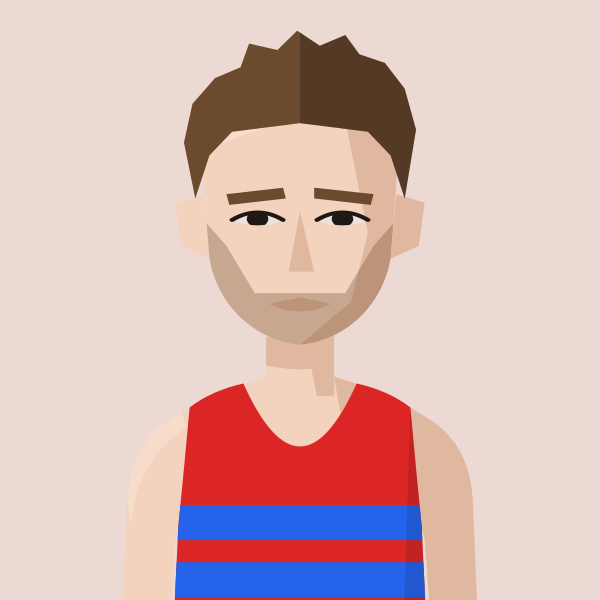
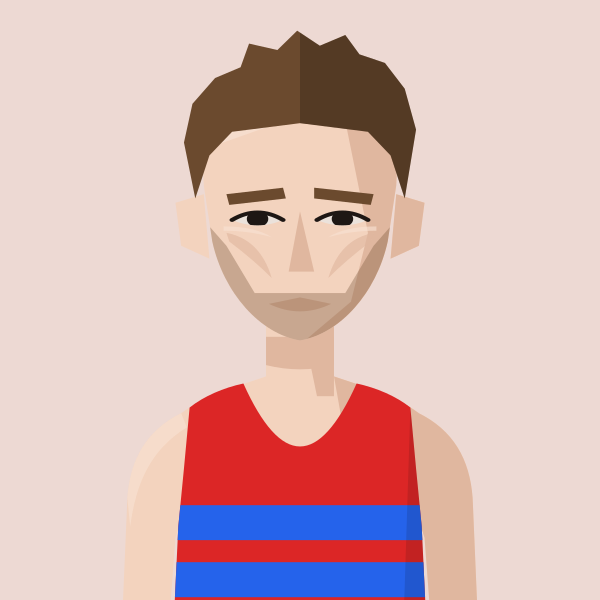
Jack Ramm: thinner face (narrow jaw option + hollow cheeks)
Claude-Session: https://claude.ai/code/session_01MgmDWhFqnSSnP4iBLKXUZC

Changed region(s): [[0.51, 0.36, 0.66, 0.57], [0.33, 0.39, 0.48, 0.57]]

diff --git a/files/index.html b/files/index.html
@@ -594,7 +594,7 @@ return m;})();
 const portraitFile=(name,club)=>{const k=normalizeNameForCompare(name||'').replace(/\s*\(([^)]*)\)$/,(m,c)=>CLUBS[c.toUpperCase()]?'':m);const a=PORTRAITS[k];if(a&&a.club===club)return a.file;const b=PORTRAITS[k+'@'+club];return b?b.file:null;};
 // Athlete header figure: superstar portrait if we have one, else a grey runner in the club vest, else the plain vest icon
 // Changes whenever any portrait changes (set by tools/build_og.py), so browsers fetch fresh images instead of old cached ones
-const PORTRAIT_V='b87ac3f2';
+const PORTRAIT_V='356202d5';
 const AthletePortrait=({name,club,w,fill,onClick})=>{const[failed,setFailed]=useState(false);const file=portraitFile(name,club);const src=file?`/portraits/athletes/${file}.svg?v=${PORTRAIT_V}`:PORTRAIT_CLUBS.has(club)?`/portraits/clubs/${club.replace(/\//g,'').replace(/&/g,'and')}.svg?v=${PORTRAIT_V}`:null;if(!src||failed)return<div onClick={onClick} className={onClick?'cursor-pointer':''}><ClubShield club={club} size={w}/></div>;const h=Math.round(w*148/126),ih=Math.round(w*1.4);if(fill)return<div onClick={onClick} className="cursor-pointer" style={{alignSelf:'stretch',minHeight:h,aspectRatio:'126 / 148',flexShrink:0,position:'relative',borderRadius:4,overflow:'hidden'}}><img src={src} alt={file?`Portrait of ${name.replace(/\s*\([^)]*\)$/,'')}`:`Runner in ${CLUBS[club]?.name||club} vest`} style={{position:'absolute',top:0,left:0,display:'block',width:'100%',height:'auto'}} onError={()=>setFailed(true)}/></div>;return<div style={{width:w,height:h,borderRadius:4,overflow:'hidden',flexShrink:0}}><img src={src} alt={file?`Portrait of ${name.replace(/\s*\([^)]*\)$/,'')}`:`Runner in ${CLUBS[club]?.name||club} vest`} width={w} height={ih} style={{display:'block',width:w,height:ih}} onError={()=>setFailed(true)}/></div>;};
 const getClubVestSvg=(club)=>{
   const p="M3 0 L6 0 Q7 4 10 5 Q13 4 14 0 L17 0 L17 20 L3 20 Z";

diff --git a/tools/gen_portraits.py b/tools/gen_portraits.py
@@ -4,6 +4,7 @@ Generic runners: 'grey' silhouette or 'outline' — no implied skin tone."""
 import os, math
 os.makedirs("v4", exist_ok=True)
 
+HEAD_NARROW = "M66,96 C64,58 80,40 100,40 C120,40 136,58 134,96 L131,122 C127,146 114,165 100,168 C86,165 73,146 69,122 Z"
 HEAD_SQUARE = "M66,96 C64,58 80,40 100,40 C120,40 136,58 134,96 L133,140 C132,156 122,167 109,169 L91,169 C78,167 68,156 67,140 Z"
 HEAD = "M66,96 C64,58 80,40 100,40 C120,40 136,58 134,96 L132,130 C129,152 116,168 100,170 C84,168 71,152 68,130 Z"
 SQ = 'transform="translate(0,83) scale(1,0.76) translate(0,-40)"'
@@ -164,7 +165,7 @@ def _eyewhite(sk):  # an off-white, tinted towards the skin so it never glares
     return '#' + ''.join(f'{round(int(sk[i:i+2],16)*0.3+0xE8*0.7):02X}' for i in (1,3,5))
 
 def figure(kit, mode="custom", skin=1, hair="crop", hair_colour="dark brown", facial=None, cap=None, shades=False, tattoos=False, beanie=None, mud=False, glasses=False, roots=None, stars=0, gaunt=False, greying=False, headband=None, cap_back=False, facial_colour=None, tag="f", shades_col=None, shades_up=False, scrunchie=None, crown=False, jacket=None, medal=None, temples=False, cleft=False, brow_colour=None, jacket_marks=None, define=None, frown=False, hood=None, puffy=False, creases=False, necklace=None, shades_frame="#F4F4F2", thin_brows=False, headband_thick=False, parting=False, rosy=False, glasses_col="#9A9DA3", sideburns=False, armband=False, sleeves=None, buff=None, jaw=None):
-    head = HEAD_SQUARE if jaw == "square" else HEAD
+    head = HEAD_SQUARE if jaw == "square" else HEAD_NARROW if jaw == "narrow" else HEAD
     primary, extras, ground = KITS[kit]
     line = mode == "outline"
     if mode == "custom": sk, dk, lt = SKIN[skin]
@@ -475,7 +476,7 @@ save("royer", figure("G&G", skin=2, hair="longcurls", hair_colour="black", facia
 save("kelly", figure("BEL", skin=1, hair="quiff", hair_colour="light brown", facial="stubble"))
 save("janiaud", figure("BEL", skin=3, hair="quiff", hair_colour="black", facial="stubble", crown=True))
 save("renshaw", figure("THH", skin=1, hair="quiffrecede", hair_colour="#C9945A"))
-save("ramm", figure("DUL", skin=1, hair="tousled", hair_colour="mid brown", facial="stubble"))
+save("ramm", figure("DUL", skin=1, hair="tousled", hair_colour="mid brown", facial="stubble", gaunt=True, jaw="narrow"))
 save("dyer", figure("BEL", skin=1, hair="tousled", hair_colour="blonde", headband="#1C1C1E"))
 save("blackwood", figure("DUL", skin=1, hair="quiff", hair_colour="light brown"))
 save("nicoll", figure("H/W", skin=1, hair="bigcurls", hair_colour="ginger"))
